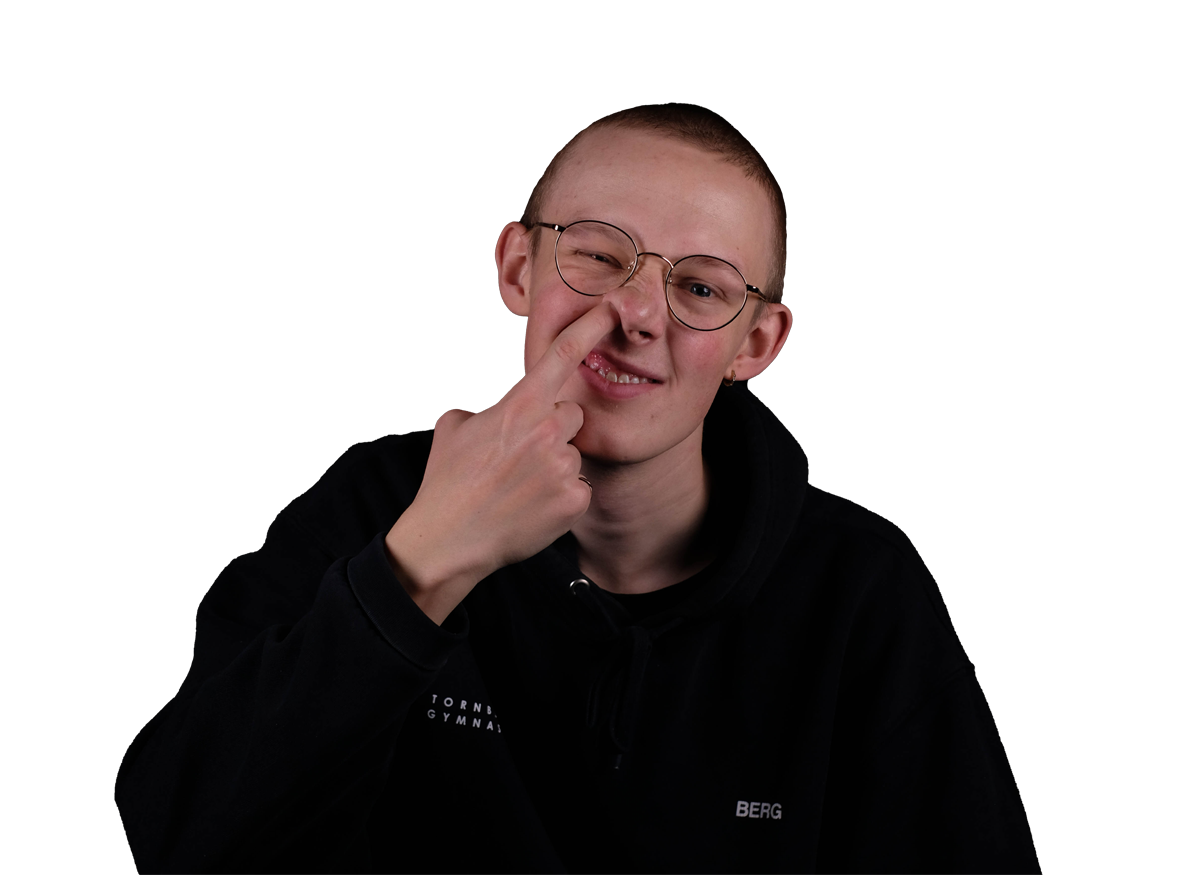
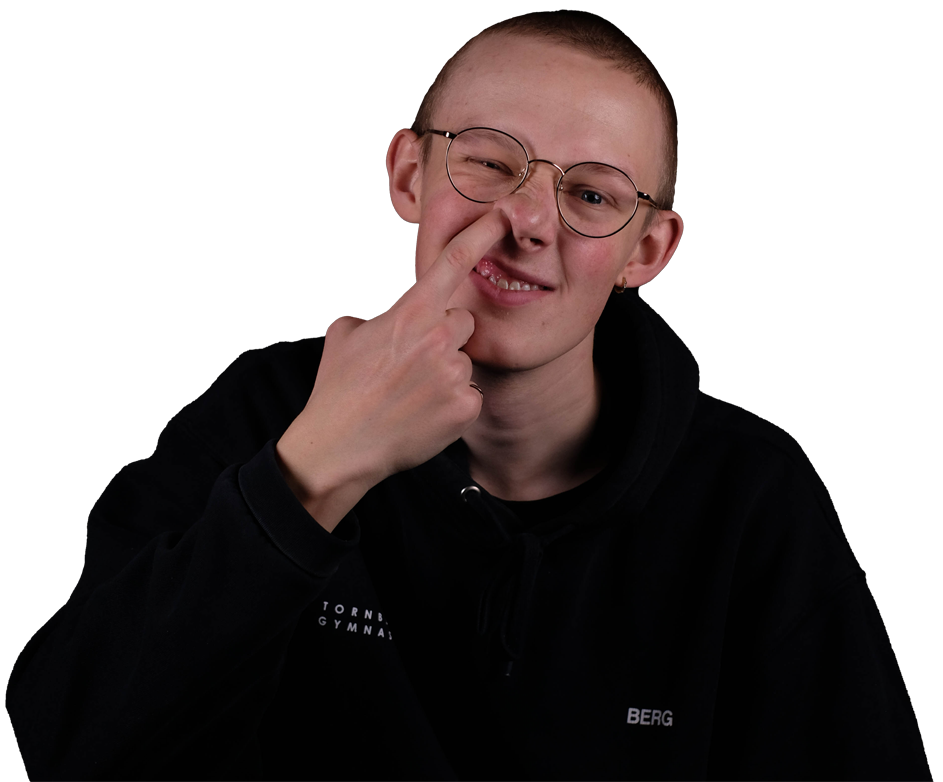
rettet billede
Jeg har rettet protrætbilledet af mig, og sørget for at billederne til venstre virker.

Changed region(s): [[0.0, 0.0, 1.0, 1.0], [0.6151, 0.89, 0.7073, 0.9514], [0.3383, 0.7673, 0.4305, 0.8286]]

diff --git a/style.css b/style.css
@@ -22,7 +22,7 @@ padding:0;
   width: 150px;
   margin-left: 25px;
   margin-top: 0px;
-  height: 1190px;
+  height: 1150px;
 }
 
 .billede1 {
@@ -41,7 +41,7 @@ padding:0;
 }
 
 .section3 {
-  margin-left: 1750px;
+  margin-left: 680px;
   margin-top: -800px;
   position: absolute;
 }
@@ -51,18 +51,18 @@ padding:0;
 }
 
 .section2 {
-  margin-top: -675px;
-  margin-left: 75px;
+  margin-top: -565px;
+  margin-left: 170px;
   position: absolute;
 }
 
 .mig {
-  height: 850px;
+  height: 750px;
 }
 
 .section4 {
   margin-left: 2250px;
-  margin-top: 200px;
+  margin-top: 250px;
   position: absolute;
 }
 
@@ -92,7 +92,3 @@ ul{
   /*fjerner prikker ved hvert link*/
 list-style-type: none;
 }
-
-
-body * {
-  border:2px solid red; }
